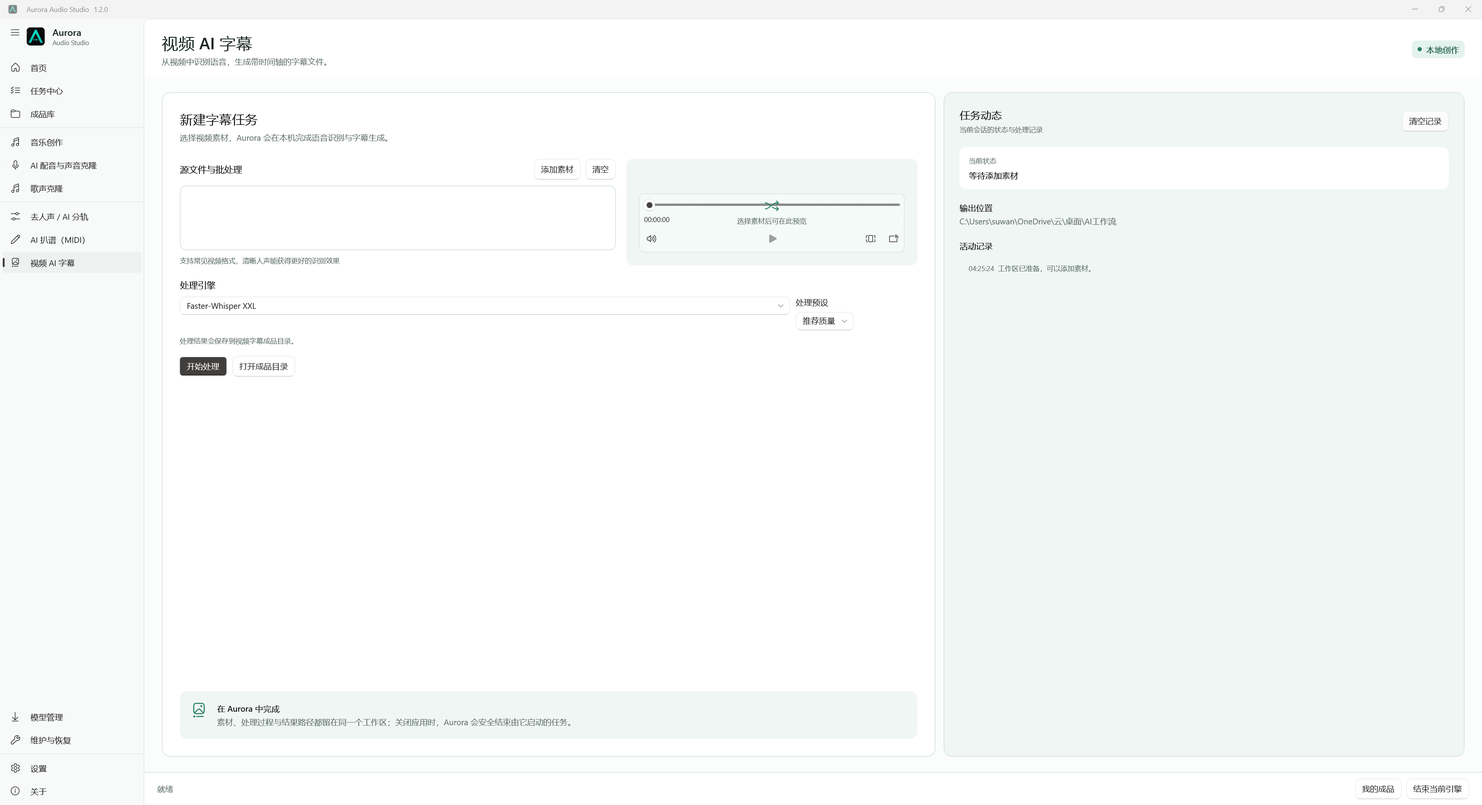
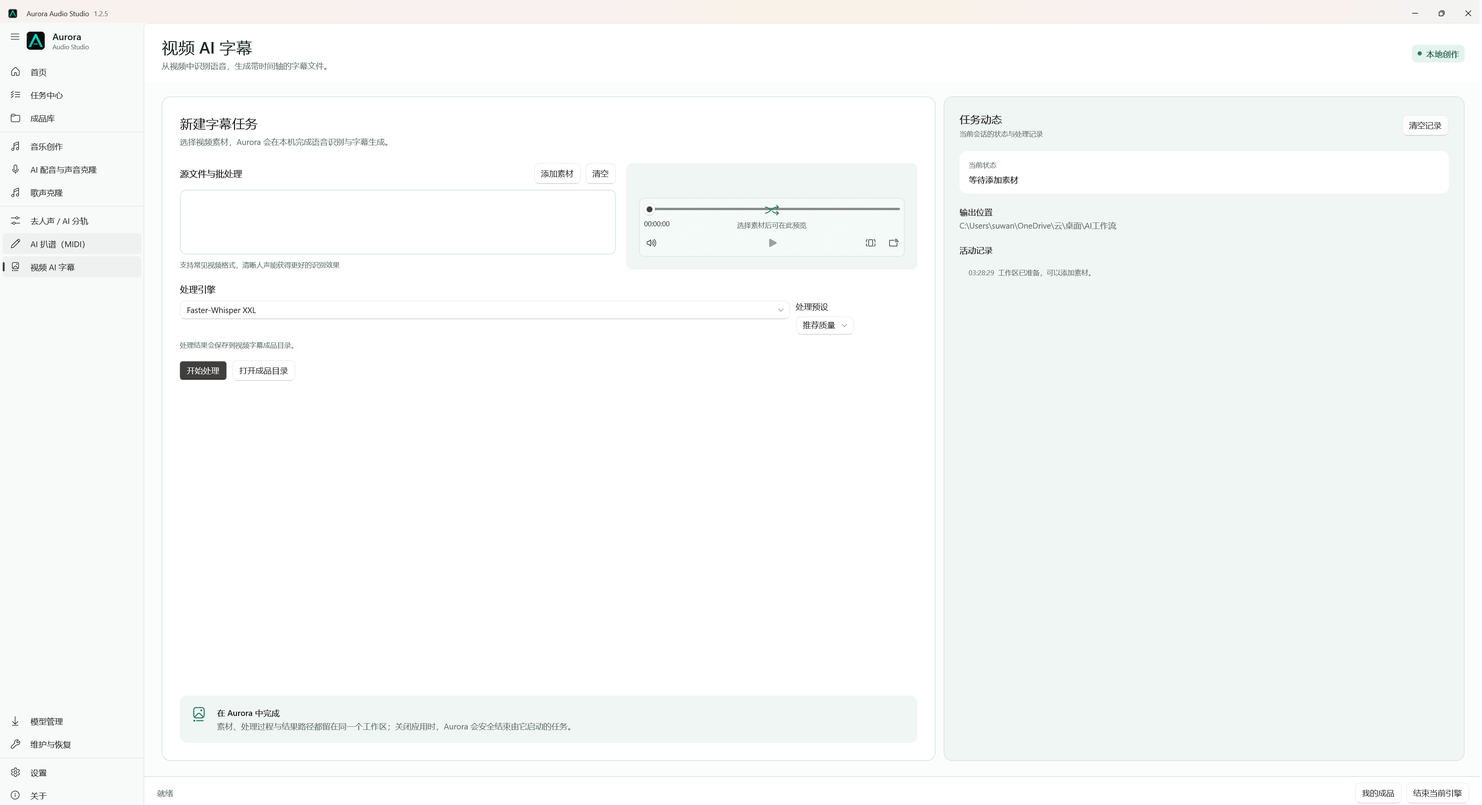
Release Aurora Audio Studio 1.2.5

diff --git a/work/audio-studio/AuroraAudioStudio/MainPage.xaml b/work/audio-studio/AuroraAudioStudio/MainPage.xaml
@@ -61,42 +61,44 @@
                                 <Grid ColumnSpacing="28"><Grid.ColumnDefinitions><ColumnDefinition/><ColumnDefinition Width="Auto"/></Grid.ColumnDefinitions>
                                     <StackPanel Spacing="10" MaxWidth="700" HorizontalAlignment="Left">
                                         <TextBlock x:Name="HomeWelcomeTitle" Text="今天想创作什么？" FontSize="30" FontWeight="SemiBold" Foreground="White"/>
-                                        <TextBlock x:Name="HomeWelcomeBody" Text="从一个明确的任务开始。Aurora 会保存项目、处理记录与成品关系，意外退出后也能继续。" TextWrapping="Wrap" Foreground="#E7FFF6" FontSize="15"/>
+                                        <TextBlock x:Name="HomeWelcomeBody" Text="六个功能互相独立，不需要先新建项目。选择功能后，再按提示添加素材、模型和输出位置。" TextWrapping="Wrap" Foreground="#E7FFF6" FontSize="15"/>
                                     </StackPanel>
                                     <FontIcon Grid.Column="1" Glyph="&#xE8D6;" FontSize="48" Foreground="#D6F8EA" VerticalAlignment="Center"/>
                                 </Grid>
                             </Border>
-                            <Grid Grid.Row="1" ColumnSpacing="12">
-                                <Grid.ColumnDefinitions><ColumnDefinition/><ColumnDefinition/><ColumnDefinition/><ColumnDefinition/><ColumnDefinition/></Grid.ColumnDefinitions>
+                            <Grid Grid.Row="1" ColumnSpacing="12" RowSpacing="12">
+                                <Grid.ColumnDefinitions><ColumnDefinition/><ColumnDefinition/><ColumnDefinition/></Grid.ColumnDefinitions>
+                                <Grid.RowDefinitions><RowDefinition Height="Auto"/><RowDefinition Height="Auto"/></Grid.RowDefinitions>
                                 <Button Grid.Column="0" Tag="music" Click="TemplateButton_Click" HorizontalAlignment="Stretch" HorizontalContentAlignment="Stretch" Padding="18,14"><Grid ColumnSpacing="12"><Grid.ColumnDefinitions><ColumnDefinition Width="Auto"/><ColumnDefinition Width="*"/></Grid.ColumnDefinitions><FontIcon Glyph="&#xE8D6;" FontSize="20" VerticalAlignment="Center" Foreground="{ThemeResource AuroraAccentBrush}"/><StackPanel Grid.Column="1" VerticalAlignment="Center" Spacing="2"><TextBlock Text="创作音乐" FontWeight="SemiBold"/><TextBlock Text="文字到完整歌曲" FontSize="12" TextTrimming="CharacterEllipsis" Foreground="{ThemeResource AuroraMutedBrush}"/></StackPanel></Grid></Button>
                                 <Button Grid.Column="1" Tag="voice" Click="TemplateButton_Click" HorizontalAlignment="Stretch" HorizontalContentAlignment="Stretch" Padding="18,14"><Grid ColumnSpacing="12"><Grid.ColumnDefinitions><ColumnDefinition Width="Auto"/><ColumnDefinition Width="*"/></Grid.ColumnDefinitions><FontIcon Glyph="&#xE720;" FontSize="20" VerticalAlignment="Center" Foreground="{ThemeResource AuroraAccentBrush}"/><StackPanel Grid.Column="1" VerticalAlignment="Center" Spacing="2"><TextBlock Text="制作配音" FontWeight="SemiBold"/><TextBlock Text="设计与克隆音色" FontSize="12" TextTrimming="CharacterEllipsis" Foreground="{ThemeResource AuroraMutedBrush}"/></StackPanel></Grid></Button>
-                                <Button Grid.Column="2" Tag="separation" Click="TemplateButton_Click" HorizontalAlignment="Stretch" HorizontalContentAlignment="Stretch" Padding="18,14"><Grid ColumnSpacing="12"><Grid.ColumnDefinitions><ColumnDefinition Width="Auto"/><ColumnDefinition Width="*"/></Grid.ColumnDefinitions><FontIcon Glyph="&#xE9E9;" FontSize="20" VerticalAlignment="Center" Foreground="{ThemeResource AuroraAccentBrush}"/><StackPanel Grid.Column="1" VerticalAlignment="Center" Spacing="2"><TextBlock Text="拆分混音" FontWeight="SemiBold"/><TextBlock Text="人声与乐器分轨" FontSize="12" TextTrimming="CharacterEllipsis" Foreground="{ThemeResource AuroraMutedBrush}"/></StackPanel></Grid></Button>
-                                <Button Grid.Column="3" Tag="transcription" Click="TemplateButton_Click" HorizontalAlignment="Stretch" HorizontalContentAlignment="Stretch" Padding="18,14"><Grid ColumnSpacing="12"><Grid.ColumnDefinitions><ColumnDefinition Width="Auto"/><ColumnDefinition Width="*"/></Grid.ColumnDefinitions><FontIcon Glyph="&#xE70F;" FontSize="20" VerticalAlignment="Center" Foreground="{ThemeResource AuroraAccentBrush}"/><StackPanel Grid.Column="1" VerticalAlignment="Center" Spacing="2"><TextBlock Text="音频转 MIDI" FontWeight="SemiBold"/><TextBlock Text="识别演奏与旋律" FontSize="12" TextTrimming="CharacterEllipsis" Foreground="{ThemeResource AuroraMutedBrush}"/></StackPanel></Grid></Button>
-                                <Button Grid.Column="4" Tag="subtitles" Click="TemplateButton_Click" HorizontalAlignment="Stretch" HorizontalContentAlignment="Stretch" Padding="18,14"><Grid ColumnSpacing="12"><Grid.ColumnDefinitions><ColumnDefinition Width="Auto"/><ColumnDefinition Width="*"/></Grid.ColumnDefinitions><FontIcon Glyph="&#xE8BA;" FontSize="20" VerticalAlignment="Center" Foreground="{ThemeResource AuroraAccentBrush}"/><StackPanel Grid.Column="1" VerticalAlignment="Center" Spacing="2"><TextBlock Text="生成字幕" FontWeight="SemiBold"/><TextBlock Text="视频语音到时间轴" FontSize="12" TextTrimming="CharacterEllipsis" Foreground="{ThemeResource AuroraMutedBrush}"/></StackPanel></Grid></Button>
+                                <Button Grid.Column="2" Tag="singing" Click="TemplateButton_Click" HorizontalAlignment="Stretch" HorizontalContentAlignment="Stretch" Padding="18,14"><Grid ColumnSpacing="12"><Grid.ColumnDefinitions><ColumnDefinition Width="Auto"/><ColumnDefinition Width="*"/></Grid.ColumnDefinitions><FontIcon Glyph="&#xE189;" FontSize="20" VerticalAlignment="Center" Foreground="{ThemeResource AuroraAccentBrush}"/><StackPanel Grid.Column="1" VerticalAlignment="Center" Spacing="2"><TextBlock Text="克隆歌声" FontWeight="SemiBold"/><TextBlock Text="转换与克隆演唱音色" FontSize="12" TextTrimming="CharacterEllipsis" Foreground="{ThemeResource AuroraMutedBrush}"/></StackPanel></Grid></Button>
+                                <Button Grid.Row="1" Grid.Column="0" Tag="separation" Click="TemplateButton_Click" HorizontalAlignment="Stretch" HorizontalContentAlignment="Stretch" Padding="18,14"><Grid ColumnSpacing="12"><Grid.ColumnDefinitions><ColumnDefinition Width="Auto"/><ColumnDefinition Width="*"/></Grid.ColumnDefinitions><FontIcon Glyph="&#xE9E9;" FontSize="20" VerticalAlignment="Center" Foreground="{ThemeResource AuroraAccentBrush}"/><StackPanel Grid.Column="1" VerticalAlignment="Center" Spacing="2"><TextBlock Text="拆分混音" FontWeight="SemiBold"/><TextBlock Text="人声与乐器分轨" FontSize="12" TextTrimming="CharacterEllipsis" Foreground="{ThemeResource AuroraMutedBrush}"/></StackPanel></Grid></Button>
+                                <Button Grid.Row="1" Grid.Column="1" Tag="transcription" Click="TemplateButton_Click" HorizontalAlignment="Stretch" HorizontalContentAlignment="Stretch" Padding="18,14"><Grid ColumnSpacing="12"><Grid.ColumnDefinitions><ColumnDefinition Width="Auto"/><ColumnDefinition Width="*"/></Grid.ColumnDefinitions><FontIcon Glyph="&#xE70F;" FontSize="20" VerticalAlignment="Center" Foreground="{ThemeResource AuroraAccentBrush}"/><StackPanel Grid.Column="1" VerticalAlignment="Center" Spacing="2"><TextBlock Text="音频转 MIDI" FontWeight="SemiBold"/><TextBlock Text="识别演奏与旋律" FontSize="12" TextTrimming="CharacterEllipsis" Foreground="{ThemeResource AuroraMutedBrush}"/></StackPanel></Grid></Button>
+                                <Button Grid.Row="1" Grid.Column="2" Tag="subtitles" Click="TemplateButton_Click" HorizontalAlignment="Stretch" HorizontalContentAlignment="Stretch" Padding="18,14"><Grid ColumnSpacing="12"><Grid.ColumnDefinitions><ColumnDefinition Width="Auto"/><ColumnDefinition Width="*"/></Grid.ColumnDefinitions><FontIcon Glyph="&#xE8BA;" FontSize="20" VerticalAlignment="Center" Foreground="{ThemeResource AuroraAccentBrush}"/><StackPanel Grid.Column="1" VerticalAlignment="Center" Spacing="2"><TextBlock Text="生成字幕" FontWeight="SemiBold"/><TextBlock Text="视频语音到时间轴" FontSize="12" TextTrimming="CharacterEllipsis" Foreground="{ThemeResource AuroraMutedBrush}"/></StackPanel></Grid></Button>
                             </Grid>
                             <Border Grid.Row="2" Padding="20" Background="{ThemeResource AuroraPaneBrush}" CornerRadius="14">
                                 <Grid ColumnSpacing="18">
                                     <Grid.ColumnDefinitions><ColumnDefinition/><ColumnDefinition Width="Auto"/><ColumnDefinition Width="Auto"/><ColumnDefinition Width="Auto"/></Grid.ColumnDefinitions>
                                     <StackPanel Spacing="4" VerticalAlignment="Center">
-                                        <TextBlock Text="第一次使用？三步开始创作" FontSize="17" FontWeight="SemiBold"/>
-                                        <TextBlock Text="先确认保存位置，再按需安装一个模型；无需一次下载全部组件。" Foreground="{ThemeResource AuroraMutedBrush}" TextWrapping="Wrap"/>
+                                        <TextBlock Text="第一次使用？直接选择功能" FontSize="17" FontWeight="SemiBold"/>
+                                        <TextBlock Text="不需要新建项目。进入任一功能后，Aurora 会根据当前任务提示所需的素材、模型和输出位置。" Foreground="{ThemeResource AuroraMutedBrush}" TextWrapping="Wrap"/>
                                     </StackPanel>
-                                    <Button Grid.Column="1" Content="1. 设置保存位置" Tag="settings" Click="TemplateButton_Click" VerticalAlignment="Center"/>
-                                    <Button Grid.Column="2" Content="2. 按需安装模型" Tag="models" Click="TemplateButton_Click" VerticalAlignment="Center"/>
-                                    <Button Grid.Column="3" Content="3. 生成第一份字幕" Tag="subtitles" Click="TemplateButton_Click" VerticalAlignment="Center" Style="{StaticResource AccentButtonStyle}"/>
+                                    <Button Grid.Column="1" Content="创作音乐" Tag="music" Click="TemplateButton_Click" VerticalAlignment="Center"/>
+                                    <Button Grid.Column="2" Content="制作配音" Tag="voice" Click="TemplateButton_Click" VerticalAlignment="Center"/>
+                                    <Button Grid.Column="3" Content="生成字幕" Tag="subtitles" Click="TemplateButton_Click" VerticalAlignment="Center" Style="{StaticResource AccentButtonStyle}"/>
                                 </Grid>
                             </Border>
                             <Grid Grid.Row="3" ColumnSpacing="28"><Grid.ColumnDefinitions><ColumnDefinition Width="3*"/><ColumnDefinition Width="2*"/></Grid.ColumnDefinitions>
                                 <Grid><Grid.RowDefinitions><RowDefinition Height="Auto"/><RowDefinition Height="*"/></Grid.RowDefinitions>
-                                    <TextBlock Text="最近项目" FontSize="20" FontWeight="SemiBold" Margin="2,0,0,12"/>
+                                    <TextBlock Text="最近处理记录" FontSize="20" FontWeight="SemiBold" Margin="2,0,0,12"/>
                                     <ListView x:Name="RecentProjectsList" Grid.Row="1" SelectionMode="None">
                                         <ListView.ItemTemplate><DataTemplate><Grid Padding="14,12" ColumnSpacing="14"><Grid.ColumnDefinitions><ColumnDefinition/><ColumnDefinition Width="150"/><ColumnDefinition Width="Auto"/></Grid.ColumnDefinitions>
                                             <StackPanel><TextBlock Text="{Binding Name}" FontWeight="SemiBold"/><TextBlock Text="{Binding SourcePath}" TextTrimming="CharacterEllipsis" Foreground="{ThemeResource AuroraMutedBrush}" FontSize="12"/></StackPanel>
                                             <StackPanel Grid.Column="1"><TextBlock Text="{Binding FeatureDisplay}"/><TextBlock Text="{Binding UpdatedDisplay}" Foreground="{ThemeResource AuroraMutedBrush}" FontSize="12"/></StackPanel>
-                                            <Button Grid.Column="2" Content="继续" Tag="{Binding Id}" Click="OpenProjectButton_Click"/>
+                                            <Button Grid.Column="2" Content="再次处理" Tag="{Binding Id}" Click="OpenProjectButton_Click"/>
                                         </Grid></DataTemplate></ListView.ItemTemplate>
                                     </ListView>
-                                    <StackPanel x:Name="ProjectsEmpty" Grid.Row="1" HorizontalAlignment="Center" VerticalAlignment="Center" Spacing="8"><FontIcon Glyph="&#xE8B7;" FontSize="28"/><TextBlock Text="完成第一个任务后，项目会出现在这里。" Foreground="{ThemeResource AuroraMutedBrush}"/></StackPanel>
+                                    <StackPanel x:Name="ProjectsEmpty" Grid.Row="1" HorizontalAlignment="Center" VerticalAlignment="Center" Spacing="8"><FontIcon Glyph="&#xE8B7;" FontSize="28"/><TextBlock Text="完成分轨、扒谱或字幕任务后，处理记录会出现在这里。" Foreground="{ThemeResource AuroraMutedBrush}"/></StackPanel>
                                 </Grid>
                                 <Border Grid.Column="1" Padding="22" Background="{ThemeResource AuroraPaneBrush}" CornerRadius="14">
                                     <StackPanel Spacing="14"><TextBlock Text="正在进行" FontSize="20" FontWeight="SemiBold"/><TextBlock x:Name="QueueSummaryText" Text="当前没有排队任务" Foreground="{ThemeResource AuroraMutedBrush}"/>
@@ -335,7 +337,7 @@
                             <StackPanel Orientation="Horizontal" Spacing="10" Margin="0,0,0,16"><Button Content="重新扫描" Click="RunHealthScanButton_Click" Style="{StaticResource AccentButtonStyle}"/><Button Content="导出诊断包" Click="DiagnosticsButton_Click"/><Button Content="打开日志" Click="OpenLogsButton_Click"/></StackPanel>
                             <ListView x:Name="HealthList" Grid.Row="1" SelectionMode="None"><ListView.ItemTemplate><DataTemplate><Grid Padding="14,12" ColumnSpacing="14"><Grid.ColumnDefinitions><ColumnDefinition Width="180"/><ColumnDefinition Width="110"/><ColumnDefinition/></Grid.ColumnDefinitions><TextBlock Text="{Binding Name}" FontWeight="SemiBold"/><TextBlock Grid.Column="1" Text="{Binding State}"/><TextBlock Grid.Column="2" Text="{Binding Detail}" TextWrapping="Wrap" Foreground="{ThemeResource AuroraMutedBrush}"/></Grid></DataTemplate></ListView.ItemTemplate></ListView>
                         </Grid>
-                        <Border Grid.Column="1" Padding="24" Background="{ThemeResource AuroraPaneBrush}" CornerRadius="14"><StackPanel Spacing="18"><TextBlock Text="运行环境" FontSize="20" FontWeight="SemiBold"/><TextBlock x:Name="GpuSummaryText" TextWrapping="Wrap"/><Rectangle Height="1" Fill="{ThemeResource AuroraStrokeBrush}"/><ToggleSwitch x:Name="SafeModeToggle" Header="安全模式" OffContent="允许启动全部已安装引擎" OnContent="仅查看项目与诊断" Toggled="SafeModeToggle_Toggled"/><ToggleSwitch x:Name="AutoReleaseToggle" Header="任务完成后释放显存" IsOn="True" Toggled="AutoReleaseToggle_Toggled"/><TextBlock Text="安全模式不会删除或更改模型，只会阻止第三方引擎启动，适合排查启动问题。" TextWrapping="Wrap" Foreground="{ThemeResource AuroraMutedBrush}"/></StackPanel></Border>
+                        <Border Grid.Column="1" Padding="24" Background="{ThemeResource AuroraPaneBrush}" CornerRadius="14"><StackPanel Spacing="18"><TextBlock Text="运行环境" FontSize="20" FontWeight="SemiBold"/><TextBlock x:Name="GpuSummaryText" TextWrapping="Wrap"/><Rectangle Height="1" Fill="{ThemeResource AuroraStrokeBrush}"/><ToggleSwitch x:Name="SafeModeToggle" Header="安全模式" OffContent="允许启动全部已安装引擎" OnContent="仅查看任务与诊断" Toggled="SafeModeToggle_Toggled"/><ToggleSwitch x:Name="AutoReleaseToggle" Header="任务完成后释放显存" IsOn="True" Toggled="AutoReleaseToggle_Toggled"/><TextBlock Text="安全模式不会删除或更改模型，只会阻止第三方引擎启动，适合排查启动问题。" TextWrapping="Wrap" Foreground="{ThemeResource AuroraMutedBrush}"/></StackPanel></Border>
                     </Grid>
 
                     <ScrollViewer x:Name="SettingsView" Visibility="Collapsed"><StackPanel Padding="30,26" MaxWidth="820" HorizontalAlignment="Left" Spacing="20">
@@ -348,7 +350,7 @@
                         </ComboBox>
                         <TextBox x:Name="ModelRootBox" Header="模型目录" Width="620" HorizontalAlignment="Left"/>
                         <TextBox x:Name="OutputRootBox" Header="成品目录" Width="620" HorizontalAlignment="Left"/>
-                        <TextBox x:Name="ProjectsRootBox" Header="项目目录" Width="620" HorizontalAlignment="Left"/>
+                        <TextBox x:Name="ProjectsRootBox" Header="处理记录目录" Width="620" HorizontalAlignment="Left"/>
                         <ToggleSwitch x:Name="AppAutoUpdateToggle" Header="每天首次启动时检查应用更新"/>
                         <ToggleSwitch x:Name="ModelAutoUpdateToggle" Header="启动时检查模型更新"/>
                         <ToggleSwitch x:Name="ConfirmLargeToggle" Header="下载大型模型前始终确认"/>

diff --git a/docs/index.html b/docs/index.html
@@ -5,12 +5,12 @@
   <meta name="viewport" content="width=device-width,initial-scale=1,viewport-fit=cover">
   <meta name="theme-color" content="#f4faf7">
   <meta name="description" content="Aurora Audio Studio 是面向 Windows 的本地 AI 音频创作工作台，统一音乐、声音、分轨、MIDI 与字幕工作流。">
-  <meta property="og:title" content="Aurora Audio Studio 1.2.0">
-  <meta property="og:description" content="把模型、任务、项目与成品留在同一个本地音频工作台。">
-  <meta property="og:image" content="https://swy2018.github.io/Aurora-Audio-Studio/assets/aurora-workbench-music.png?v=120-sharp">
+  <meta property="og:title" content="Aurora Audio Studio 1.2.5">
+  <meta property="og:description" content="六个独立音频功能直接开始，模型、任务与成品留在本地。">
+  <meta property="og:image" content="https://swy2018.github.io/Aurora-Audio-Studio/assets/aurora-workbench-music.png?v=125-sharp">
   <title>Aurora Audio Studio | 本地音频创作工作台</title>
   <link rel="icon" href="assets/aurora-icon.png">
-  <link rel="preload" as="image" href="assets/aurora-workbench-music.png?v=120-sharp" fetchpriority="high">
+  <link rel="preload" as="image" href="assets/aurora-workbench-music.png?v=125-sharp" fetchpriority="high">
   <link rel="stylesheet" href="styles.css">
   <script type="module" src="app.js"></script>
 </head>
@@ -36,17 +36,17 @@
   <main id="content">
     <section class="hero shell" id="top">
       <div class="hero-copy reveal">
-        <p class="release"><span class="zh">Aurora Audio Studio 1.2.0</span><span class="en">Aurora Audio Studio 1.2.0</span></p>
+        <p class="release"><span class="zh">Aurora Audio Studio 1.2.5</span><span class="en">Aurora Audio Studio 1.2.5</span></p>
         <h1><span class="zh">让声音创作，<br>回到创作本身。</span><span class="en">Keep audio creation<br>focused on the work.</span></h1>
         <p class="hero-lead"><span class="zh">音乐生成、声音克隆、歌声转换、AI 分轨、MIDI 扒谱与视频字幕，集中在一套本地 Windows 工作台里。</span><span class="en">Music, voice cloning, singing conversion, stem separation, MIDI transcription, and subtitles in one local Windows workspace.</span></p>
         <div class="hero-actions">
-          <a class="button primary" href="https://github.com/swy2018/Aurora-Audio-Studio/releases/latest"><span class="zh">下载 1.2.0</span><span class="en">Download 1.2.0</span></a>
+          <a class="button primary" href="https://github.com/swy2018/Aurora-Audio-Studio/releases/latest"><span class="zh">下载 1.2.5</span><span class="en">Download 1.2.5</span></a>
           <a class="button secondary" href="https://github.com/swy2018/Aurora-Audio-Studio"><span class="zh">查看源代码</span><span class="en">View source</span></a>
         </div>
       </div>
       <figure class="hero-product reveal">
-        <button class="image-button" type="button" data-lightbox="assets/aurora-workbench-music.png?v=120-sharp" aria-label="全屏查看 Aurora 音乐创作工作台">
-          <img src="assets/aurora-workbench-music.png?v=120-sharp" width="3840" height="2088" alt="Aurora Audio Studio 1.2.0 音乐创作工作台完整界面" fetchpriority="high">
+        <button class="image-button" type="button" data-lightbox="assets/aurora-workbench-music.png?v=125-sharp" aria-label="全屏查看 Aurora 音乐创作工作台">
+          <img src="assets/aurora-workbench-music.png?v=125-sharp" width="3840" height="2088" alt="Aurora Audio Studio 1.2.5 音乐创作工作台完整界面" fetchpriority="high">
         </button>
         <figcaption><span class="zh">真实工作台界面。点击图片可按原始尺寸查看。</span><span class="en">The real workspace. Open the image for a full-resolution view.</span></figcaption>
       </figure>
@@ -62,18 +62,18 @@
       <div class="section-heading reveal">
         <p class="eyebrow"><span class="zh">同一个工作空间</span><span class="en">One workspace</span></p>
         <h2><span class="zh">不是模型启动器，<br>是一套完整的创作环境。</span><span class="en">More than a model launcher.<br>A complete production environment.</span></h2>
-        <p><span class="zh">工作台、项目、任务、模型与成品关系始终可见。界面截图使用原始分辨率展示，不做透视拉伸和裁切。</span><span class="en">Workspaces, projects, tasks, models, and outputs remain connected. Every product image keeps its original aspect ratio without perspective distortion or cropping.</span></p>
+        <p><span class="zh">六个功能互相独立，直接进入当前工作台；任务、模型与成品状态保持清晰。界面截图使用原始分辨率展示，不做透视拉伸和裁切。</span><span class="en">Six independent features open directly into their workspaces, with task, model, and output state kept clear. Every product image keeps its original aspect ratio without perspective distortion or cropping.</span></p>
       </div>
 
       <div class="workspace-browser reveal">
         <div class="workspace-tabs" role="tablist" aria-label="工作台预览">
-          <button type="button" role="tab" aria-selected="true" data-shot="assets/aurora-workbench-music.png?v=120-sharp" data-zh="输入创作描述，选择模型与时长，在嵌入式工作台里完成音乐生成。" data-en="Describe the piece, choose a model and duration, then create inside the embedded music workspace."><span class="zh">音乐创作</span><span class="en">Music</span></button>
-          <button type="button" role="tab" aria-selected="false" data-shot="assets/aurora-workbench-voice.png?v=120-sharp" data-zh="在统一入口管理配音、音色设计、声音克隆与歌声转换。" data-en="Manage speech, voice design, cloning, and singing conversion through one clear entry point."><span class="zh">声音与歌声</span><span class="en">Voice</span></button>
-          <button type="button" role="tab" aria-selected="false" data-shot="assets/aurora-workbench-subtitle.png?v=120-sharp" data-zh="批量加入视频素材，预览内容并生成可继续校对的时间轴字幕。" data-en="Add video in batches, preview the source, and create timed subtitles ready for review."><span class="zh">视频字幕</span><span class="en">Subtitles</span></button>
+          <button type="button" role="tab" aria-selected="true" data-shot="assets/aurora-workbench-music.png?v=125-sharp" data-zh="输入创作描述，选择模型与时长，在嵌入式工作台里完成音乐生成。" data-en="Describe the piece, choose a model and duration, then create inside the embedded music workspace."><span class="zh">音乐创作</span><span class="en">Music</span></button>
+          <button type="button" role="tab" aria-selected="false" data-shot="assets/aurora-workbench-voice.png?v=125-sharp" data-zh="在独立入口管理配音、音色设计与声音克隆。" data-en="Manage speech, voice design, and cloning through its independent entry point."><span class="zh">声音与歌声</span><span class="en">Voice</span></button>
+          <button type="button" role="tab" aria-selected="false" data-shot="assets/aurora-workbench-subtitle.png?v=125-sharp" data-zh="批量加入视频素材，预览内容并生成可继续校对的时间轴字幕。" data-en="Add video in batches, preview the source, and create timed subtitles ready for review."><span class="zh">视频字幕</span><span class="en">Subtitles</span></button>
         </div>
         <p class="workspace-description"><span class="zh">输入创作描述，选择模型与时长，在嵌入式工作台里完成音乐生成。</span><span class="en">Describe the piece, choose a model and duration, then create inside the embedded music workspace.</span></p>
-        <button class="image-button workspace-image" type="button" data-lightbox="assets/aurora-workbench-music.png?v=120-sharp" aria-label="全屏查看当前工作台">
-          <img src="assets/aurora-workbench-music.png?v=120-sharp" width="3840" height="2088" alt="Aurora 1.2.0 音乐创作工作台" loading="lazy">
+        <button class="image-button workspace-image" type="button" data-lightbox="assets/aurora-workbench-music.png?v=125-sharp" aria-label="全屏查看当前工作台">
+          <img src="assets/aurora-workbench-music.png?v=125-sharp" width="3840" height="2088" alt="Aurora 1.2.5 音乐创作工作台" loading="lazy">
         </button>
       </div>
     </section>
@@ -81,15 +81,15 @@
     <section class="workflow-section" id="workflow">
       <div class="shell workflow-grid">
         <div class="workflow-intro reveal">
-          <p class="eyebrow"><span class="zh">1.2.0 专业工作流</span><span class="en">Professional workflow in 1.2.0</span></p>
+          <p class="eyebrow"><span class="zh">1.2.5 直接开始</span><span class="en">Start directly in 1.2.5</span></p>
           <h2><span class="zh">从一份素材，<br>到可追溯的成品。</span><span class="en">From source media<br>to traceable output.</span></h2>
-          <p><span class="zh">1.2.0 增加清晰的首次使用路径，并把批处理、媒体预览、实时任务状态和成品管理连成一条主流程。</span><span class="en">Version 1.2.0 adds a clear first-run path and keeps batches, media preview, live task state, and result management in one flow.</span></p>
+          <p><span class="zh">1.2.5 让六个功能从首页直接进入，并用真实的处理记录替代并不存在的统一工程概念。</span><span class="en">Version 1.2.5 opens all six features directly from Home and replaces the fictional unified-project concept with honest processing records.</span></p>
         </div>
         <ol class="workflow-list reveal">
           <li><div><strong><span class="zh">拖入或批量选择素材</span><span class="en">Drop or batch-select media</span></strong><p><span class="zh">音频和视频在提交前即可预览，并保留大小与格式信息。</span><span class="en">Preview audio and video before submitting, with format and size visible.</span></p></div></li>
           <li><div><strong><span class="zh">选择清晰的处理预设</span><span class="en">Choose a clear processing preset</span></strong><p><span class="zh">快速草稿、推荐质量与高质量会匹配对应的本地引擎。</span><span class="en">Fast, recommended, and quality presets select the appropriate local engine.</span></p></div></li>
           <li><div><strong><span class="zh">在任务中心掌握过程</span><span class="en">Follow progress in Task Center</span></strong><p><span class="zh">查看真实进度、当前阶段、持续时间和引擎日志，也可暂停后续队列。</span><span class="en">See real progress, stage, duration, and engine logs, or pause the pending queue.</span></p></div></li>
-          <li><div><strong><span class="zh">在成品库继续工作</span><span class="en">Continue from the Results library</span></strong><p><span class="zh">音轨、MIDI 与字幕按项目和时间汇总，直接打开所在位置。</span><span class="en">Stems, MIDI, and subtitles are grouped by project and time with direct access.</span></p></div></li>
+          <li><div><strong><span class="zh">在成品库继续工作</span><span class="en">Continue from the Results library</span></strong><p><span class="zh">音轨、MIDI 与字幕按处理记录和时间汇总，直接打开所在位置。</span><span class="en">Stems, MIDI, and subtitles are grouped by processing record and time with direct access.</span></p></div></li>
         </ol>
       </div>
     </section>
@@ -101,7 +101,7 @@
       </div>
       <div class="local-details reveal">
         <article><strong><span class="zh">模型部署更透明</span><span class="en">Transparent model deployment</span></strong><p><span class="zh">安装前显示目标目录、预计下载量、建议空间与当前可用空间。下载过程可取消并继续。</span><span class="en">Review the target, download estimate, recommended space, and available space before a resumable installation.</span></p></article>
-        <article><strong><span class="zh">项目关系不会丢失</span><span class="en">Project context persists</span></strong><p><span class="zh">.arr 项目关联源素材、所用模型、任务记录与输出结果，旧 .aurora 项目继续兼容。</span><span class="en">.arr projects link sources, models, tasks, and outputs while legacy .aurora projects remain compatible.</span></p></article>
+        <article><strong><span class="zh">处理记录清晰可查</span><span class="en">Processing history stays traceable</span></strong><p><span class="zh">.arr 是分轨、扒谱和字幕任务的轻量记录，不是统一工程文件；它关联源文件路径、模型、参数与输出，旧 .aurora 记录继续兼容。</span><span class="en">.arr is a lightweight record for separation, transcription, and subtitle tasks—not a unified project file. It links source paths, models, parameters, and outputs while legacy .aurora records remain compatible.</span></p></article>
         <article><strong><span class="zh">更新保持标准体验</span><span class="en">Standard Windows updates</span></strong><p><span class="zh">应用从 GitHub 获取经过 SHA-256 校验的安装包，并交给标准 Windows 安装界面覆盖升级。</span><span class="en">Aurora verifies GitHub installers with SHA-256 and hands updates to the standard Windows setup flow.</span></p></article>
       </div>
     </section>
@@ -122,9 +122,9 @@
     <section class="download-section shell" id="download">
       <div class="download-inner reveal">
         <h2><span class="zh">把工作流留在一处。</span><span class="en">Keep the workflow in one place.</span></h2>
-        <p><span class="zh">Aurora Audio Studio 1.2.0 用三步引导开启第一次创作，并让素材、模型、任务与成品始终连在一起。</span><span class="en">Aurora Audio Studio 1.2.0 starts the first creation in three steps and keeps media, models, tasks, and results connected.</span></p>
+        <p><span class="zh">Aurora Audio Studio 1.2.5 让六个独立功能直接开始，并在需要时才提示素材、模型与输出位置。</span><span class="en">Aurora Audio Studio 1.2.5 starts each of its six independent features directly and prompts for media, models, and output only when needed.</span></p>
         <div class="hero-actions">
-          <a class="button primary" href="https://github.com/swy2018/Aurora-Audio-Studio/releases/latest"><span class="zh">下载 1.2.0 安装版</span><span class="en">Download 1.2.0</span></a>
+          <a class="button primary" href="https://github.com/swy2018/Aurora-Audio-Studio/releases/latest"><span class="zh">下载 1.2.5 安装版</span><span class="en">Download 1.2.5</span></a>
           <a class="button secondary" href="https://github.com/swy2018/Aurora-Audio-Studio/releases"><span class="zh">查看更新日志</span><span class="en">Release notes</span></a>
         </div>
       </div>
@@ -139,7 +139,7 @@
 
   <dialog class="lightbox" aria-label="产品截图预览">
     <button type="button" class="lightbox-close" aria-label="关闭">关闭</button>
-    <img src="assets/aurora-workbench-music.png?v=120-sharp" alt="Aurora Audio Studio 产品截图">
+    <img src="assets/aurora-workbench-music.png?v=125-sharp" alt="Aurora Audio Studio 产品截图">
   </dialog>
 </body>
 </html>

diff --git a/work/audio-studio/AuroraAudioStudio/Services/LocalizationService.cs b/work/audio-studio/AuroraAudioStudio/Services/LocalizationService.cs
@@ -5,7 +5,7 @@ public sealed class LocalizationService(SettingsService settings)
     private readonly Dictionary<string, string[]> values = new(StringComparer.OrdinalIgnoreCase)
     {
         ["home"] = ["首页", "首頁", "Home", "ホーム"],
-        ["homeSubtitle"] = ["继续项目，或从一个清晰的创作任务开始。", "繼續專案，或從一個清楚的創作任務開始。", "Continue a project or start with a focused creative task.", "プロジェクトを続けるか、明確な制作タスクから始めます。"],
+        ["homeSubtitle"] = ["选择一个功能，直接开始当前任务。", "選擇一個功能，直接開始目前任務。", "Choose a feature and start your task.", "機能を選んで、すぐにタスクを始めましょう。"],
         ["tasks"] = ["任务中心", "任務中心", "Task Center", "タスクセンター"],
         ["tasksSubtitle"] = ["查看排队、处理中、已完成与可恢复的任务。", "查看排隊、處理中、已完成與可恢復的任務。", "Review queued, running, completed, and recoverable tasks.", "待機中、処理中、完了、復旧可能なタスクを確認します。"],
         ["results"] = ["成品库", "成品庫", "Results", "成果ライブラリ"],
@@ -73,17 +73,19 @@ public sealed class LocalizationService(SettingsService settings)
     private readonly Dictionary<string, string[]> phrases = new(StringComparer.OrdinalIgnoreCase)
     {
         ["今天想创作什么？"] = ["今天想创作什么？", "今天想創作什麼？", "What would you like to create?", "今日は何を作りますか？"],
+        ["六个功能互相独立，不需要先新建项目。选择功能后，再按提示添加素材、模型和输出位置。"] = ["六个功能互相独立，不需要先新建项目。选择功能后，再按提示添加素材、模型和输出位置。", "六個功能彼此獨立，不需要先建立專案。選擇功能後，再依提示加入素材、模型和輸出位置。", "All six features work independently—no project setup required. Choose a feature, then follow the prompts for media, models, and output location.", "6つの機能はそれぞれ独立しており、プロジェクト作成は不要です。機能を選び、素材、モデル、出力先の案内に従ってください。"],
         ["创作音乐"] = ["创作音乐", "創作音樂", "Create music", "音楽を作る"],
         ["制作配音"] = ["制作配音", "製作配音", "Create a voice", "音声を作る"],
+        ["克隆歌声"] = ["克隆歌声", "克隆歌聲", "Clone singing voice", "歌声をクローン"],
+        ["转换与克隆演唱音色"] = ["转换与克隆演唱音色", "轉換與克隆演唱音色", "Convert and clone singing voices", "歌声の変換とクローン"],
         ["拆分混音"] = ["拆分混音", "拆分混音", "Split a mix", "ミックスを分離"],
         ["音频转 MIDI"] = ["音频转 MIDI", "音訊轉 MIDI", "Audio to MIDI", "音声を MIDI へ"],
         ["生成字幕"] = ["生成字幕", "產生字幕", "Generate subtitles", "字幕を生成"],
-        ["第一次使用？三步开始创作"] = ["第一次使用？三步开始创作", "第一次使用？三步開始創作", "New here? Start in three steps", "初めてですか？3 ステップで開始"],
-        ["先确认保存位置，再按需安装一个模型；无需一次下载全部组件。"] = ["先确认保存位置，再按需安装一个模型；无需一次下载全部组件。", "先確認儲存位置，再按需安裝一個模型；無需一次下載全部元件。", "Choose storage, then install one model as needed. You do not need every component at once.", "保存先を確認し、必要なモデルを 1 つ導入します。すべてを一度に取得する必要はありません。"],
-        ["1. 设置保存位置"] = ["1. 设置保存位置", "1. 設定儲存位置", "1. Choose storage", "1. 保存先を設定"],
-        ["2. 按需安装模型"] = ["2. 按需安装模型", "2. 必要時安裝模型", "2. Install a model", "2. モデルを導入"],
-        ["3. 生成第一份字幕"] = ["3. 生成第一份字幕", "3. 產生第一份字幕", "3. Create first subtitles", "3. 最初の字幕を作成"],
-        ["最近项目"] = ["最近项目", "最近專案", "Recent projects", "最近のプロジェクト"],
+        ["第一次使用？直接选择功能"] = ["第一次使用？直接选择功能", "第一次使用？直接選擇功能", "New here? Choose a feature", "初めてですか？機能を選びましょう"],
+        ["不需要新建项目。进入任一功能后，Aurora 会根据当前任务提示所需的素材、模型和输出位置。"] = ["不需要新建项目。进入任一功能后，Aurora 会根据当前任务提示所需的素材、模型和输出位置。", "不需要建立專案。進入任一功能後，Aurora 會依目前任務提示所需的素材、模型和輸出位置。", "No project setup is required. Open any feature and Aurora will prompt for the media, model, and output location needed for that task.", "プロジェクト作成は不要です。機能を開くと、タスクに必要な素材、モデル、出力先が案内されます。"],
+        ["最近处理记录"] = ["最近处理记录", "最近處理記錄", "Recent processing records", "最近の処理履歴"],
+        ["再次处理"] = ["再次处理", "再次處理", "Run again", "再処理"],
+        ["完成分轨、扒谱或字幕任务后，处理记录会出现在这里。"] = ["完成分轨、扒谱或字幕任务后，处理记录会出现在这里。", "完成分軌、扒譜或字幕任務後，處理記錄會顯示在這裡。", "Processing records appear here after separation, transcription, or subtitle tasks finish.", "分離、採譜、字幕タスクの完了後、処理履歴がここに表示されます。"],
         ["正在进行"] = ["正在进行", "進行中", "In progress", "進行中"],
         ["查看全部任务"] = ["查看全部任务", "查看全部任務", "View all tasks", "すべてのタスク"],
         ["所有本地任务"] = ["所有本地任务", "所有本機任務", "All local tasks", "すべてのローカルタスク"],
@@ -107,7 +109,7 @@ public sealed class LocalizationService(SettingsService settings)
         ["主题"] = ["主题", "主題", "Theme", "テーマ"],
         ["模型目录"] = ["模型目录", "模型目錄", "Model folder", "モデルフォルダー"],
         ["成品目录"] = ["成品目录", "成品目錄", "Output folder", "出力フォルダー"],
-        ["项目目录"] = ["项目目录", "專案目錄", "Project folder", "プロジェクトフォルダー"],
+        ["处理记录目录"] = ["处理记录目录", "處理記錄目錄", "Processing records folder", "処理履歴フォルダー"],
         ["保存设置"] = ["保存设置", "儲存設定", "Save settings", "設定を保存"],
         ["每天首次启动时检查应用更新"] = ["每天首次启动时检查应用更新", "每天首次啟動時檢查應用程式更新", "Check app updates on the first launch each day", "毎日の初回起動時にアプリ更新を確認"],
         ["启动时检查模型更新"] = ["启动时检查模型更新", "啟動時檢查模型更新", "Check model updates at startup", "起動時にモデル更新を確認"],

diff --git a/work/audio-studio/AuroraAudioStudio/MainPage.xaml.cs b/work/audio-studio/AuroraAudioStudio/MainPage.xaml.cs
@@ -411,7 +411,7 @@ public sealed partial class MainPage : Page
     private async void ModelRollbackButton_Click(object sender, RoutedEventArgs e)
     {
         if ((sender as Button)?.Tag is not string id || catalog.Find(id) is not { } model) return;
-        var dialog = new ContentDialog { XamlRoot = XamlRoot, Title = "恢复模型版本", Content = $"将 {model.Name} 恢复到上一个已记录版本。项目文件和成品不会受影响。", PrimaryButtonText = "恢复", CloseButtonText = "取消" };
+        var dialog = new ContentDialog { XamlRoot = XamlRoot, Title = "恢复模型版本", Content = $"将 {model.Name} 恢复到上一个已记录版本。处理记录和成品不会受影响。", PrimaryButtonText = "恢复", CloseButtonText = "取消" };
         if (await ShowDialogAsync(dialog) != ContentDialogResult.Primary) return;
         var result = await modelUpdater.RollbackAsync(model); SetStatus(result.Message); RefreshModels();
     }
@@ -421,7 +421,7 @@ public sealed partial class MainPage : Page
         if ((sender as Button)?.Tag is not string id || catalog.Find(id) is not { } model) return;
         var path = Path.Combine(settings.Current.LocalAiRoot, model.RelativeRoot);
         if (!Directory.Exists(path)) { SetStatus("此模型当前未安装。 "); return; }
-        var dialog = new ContentDialog { XamlRoot = XamlRoot, Title = "卸载模型", Content = $"将 {model.Name} 移到 Windows 回收站。Aurora、项目和成品会保留。", PrimaryButtonText = "移到回收站", CloseButtonText = "取消", DefaultButton = ContentDialogButton.Close };
+        var dialog = new ContentDialog { XamlRoot = XamlRoot, Title = "卸载模型", Content = $"将 {model.Name} 移到 Windows 回收站。Aurora、处理记录和成品会保留。", PrimaryButtonText = "移到回收站", CloseButtonText = "取消", DefaultButton = ContentDialogButton.Close };
         if (await ShowDialogAsync(dialog) != ContentDialogResult.Primary) return;
         try { Microsoft.VisualBasic.FileIO.FileSystem.DeleteDirectory(path, Microsoft.VisualBasic.FileIO.UIOption.OnlyErrorDialogs, Microsoft.VisualBasic.FileIO.RecycleOption.SendToRecycleBin); SetStatus(model.Name + " 已移到回收站。 "); }
         catch (Exception ex) { SetStatus("卸载未完成：" + ex.Message); }
@@ -636,7 +636,7 @@ public sealed partial class MainPage : Page
     private static string CurrentDisplayVersion()
     {
         var version = Assembly.GetExecutingAssembly().GetName().Version;
-        if (version is null) return "1.2.0";
+        if (version is null) return "1.2.5";
         return version.Revision > 0 ? version.ToString(4) : version.ToString(3);
     }
 
@@ -717,7 +717,7 @@ public sealed partial class MainPage : Page
             if (File.Exists(project.SourcePath)) utilitySources.Add(new MediaSourceItem { Path = project.SourcePath });
             InputPathBox.Text = project.SourcePath;
             SelectTag(UtilityModelPicker, project.ModelId);
-            UtilityStatusText.Text = "项目已恢复，可以重新处理或查看原素材。";
+            UtilityStatusText.Text = "处理记录已载入，可以重新处理或查看原素材。";
         }
     }
 
@@ -764,7 +764,9 @@ public sealed partial class MainPage : Page
 
     private void SelectNavigation(string tag)
     {
-        var target = Shell.MenuItems.OfType<NavigationViewItem>().FirstOrDefault(x => (x.Tag as string) == tag);
+        var target = Shell.MenuItems.Concat(Shell.FooterMenuItems)
+            .OfType<NavigationViewItem>()
+            .FirstOrDefault(x => (x.Tag as string) == tag);
         if (target is not null) Shell.SelectedItem = target;
     }
     private void ClearUtilityLogButton_Click(object sender, RoutedEventArgs e) { utilityLogs.Clear(); AppendUtilityLog("活动记录已清空。"); }

diff --git a/work/audio-studio/AuroraAudioStudio/Services/ReleaseNotesCatalog.cs b/work/audio-studio/AuroraAudioStudio/Services/ReleaseNotesCatalog.cs
@@ -8,6 +8,11 @@ public static class ReleaseNotesCatalog
 
     private static readonly Entry[] Entries =
     [
+        new(new(1, 2, 5), "2026-08-12", [
+            "• 修复首次使用引导中保存位置和模型按钮无响应的问题，主导航与底部导航现在都能正确跳转。\n• 首页改为六个独立功能直接进入，不再要求先创建统一项目。\n• 明确 .arr 只是分轨、扒谱和字幕任务的轻量处理记录，并同步调整相关界面文案。\n• README、官网、关于页、音乐人使用说明、版本信息与产品截图全部同步至 1.2.5。",
+            "• 修正首次使用引導中儲存位置和模型按鈕無回應的問題，主導覽與底部導覽現在都能正確跳轉。\n• 首頁改為六個獨立功能直接進入，不再要求先建立統一專案。\n• 明確 .arr 只是分軌、扒譜和字幕任務的輕量處理記錄，並同步調整相關介面文字。\n• README、官網、關於頁、音樂人使用說明、版本資訊與產品截圖全部同步至 1.2.5。",
+            "• Fixed unresponsive storage and model actions in the first-use guide; main and footer navigation destinations now resolve correctly.\n• Rebuilt Home around six independent feature entry points with no unified-project setup step.\n• Clarified .arr as a lightweight processing record for separation, transcription, and subtitle tasks, with matching UI terminology.\n• Synchronized the README, website, About page, musician guide, version metadata, and product screenshots for 1.2.5.",
+            "• 初回ガイドの保存先とモデルボタンが反応しない問題を修正し、メインとフッターの両ナビゲーションへ正しく移動できるようにしました。\n• ホームを6つの独立した機能から直接開始できる構成へ変更し、統一プロジェクトの作成手順を廃止しました。\n• .arr を分離、採譜、字幕タスク用の軽量な処理履歴として明確化し、関連する画面表記も更新しました。\n• README、公式サイト、情報ページ、利用ガイド、バージョン情報、製品画像を 1.2.5 に同期しました。"]),
         new(new(1, 2, 0), "2026-08-11", [
             "• 首页新增三步首次使用引导，可直接设置保存位置、按需安装模型并开始第一个字幕任务。\n• README、官网与音乐人使用说明同步补充低门槛首次体验流程。\n• README 与官网的音乐、声音和字幕产品截图全部重新实拍为 1.2.0 当前界面。\n• 修正开发文档中的更新回归测试命令，并明确固定下载包模型清单的用途。",
             "• 首頁新增三步首次使用引導，可直接設定儲存位置、按需安裝模型並開始第一個字幕任務。\n• README、官網與音樂人使用說明同步補充低門檻首次體驗流程。\n• README 與官網的音樂、聲音和字幕產品截圖全部重新拍攝為 1.2.0 當前介面。\n• 修正開發文件中的更新回歸測試指令，並說明固定下載套件模型清單的用途。",

diff --git a/work/audio-studio/AuroraAudioStudio/Services/UpdateService.cs b/work/audio-studio/AuroraAudioStudio/Services/UpdateService.cs
@@ -19,7 +19,7 @@ public sealed class UpdateService(SettingsService settings, LocalizationService 
 
     public async Task<AppUpdateInfo> CheckAsync(CancellationToken cancellationToken = default)
     {
-        var current = Assembly.GetExecutingAssembly().GetName().Version?.ToString(3) ?? "1.2.0";
+        var current = Assembly.GetExecutingAssembly().GetName().Version?.ToString(3) ?? "1.2.5";
         try
         {
             using var response = await client.GetAsync(LatestReleaseApi, cancellationToken);
@@ -203,7 +203,7 @@ public sealed class UpdateService(SettingsService settings, LocalizationService 
             DefaultRequestVersion = HttpVersion.Version11,
             DefaultVersionPolicy = HttpVersionPolicy.RequestVersionExact
         };
-        value.DefaultRequestHeaders.UserAgent.Add(new ProductInfoHeaderValue("Aurora-Audio-Studio", Assembly.GetExecutingAssembly().GetName().Version?.ToString(3) ?? "1.2.0"));
+        value.DefaultRequestHeaders.UserAgent.Add(new ProductInfoHeaderValue("Aurora-Audio-Studio", Assembly.GetExecutingAssembly().GetName().Version?.ToString(3) ?? "1.2.5"));
         value.DefaultRequestHeaders.Accept.Add(new MediaTypeWithQualityHeaderValue("application/vnd.github+json"));
         return value;
     }

diff --git a/work/audio-studio/AuroraAudioStudio/Services/MaintenanceService.cs b/work/audio-studio/AuroraAudioStudio/Services/MaintenanceService.cs
@@ -12,7 +12,7 @@ public sealed class MaintenanceService(SettingsService settings, ModelCatalogSer
         checks.Add(new("创作引擎", models.All(x => x.Installed) ? "良好" : "需要检查", $"{models.Count(x => x.Installed)}/{models.Count} 个组件可用", "\uE896"));
         checks.Add(new("模型存储", Directory.Exists(settings.Current.LocalAiRoot) ? "良好" : "不可用", settings.Current.LocalAiRoot, "\uEDA2"));
         checks.Add(new("成品存储", Directory.Exists(settings.Current.OutputRoot) ? "良好" : "需要创建", DiskDetail(settings.Current.OutputRoot), "\uE8B7"));
-        checks.Add(new("任务恢复", "已启用", "异常退出后保留任务、项目与诊断记录", "\uE777"));
+        checks.Add(new("任务恢复", "已启用", "异常退出后保留任务、处理记录与诊断记录", "\uE777"));
         checks.Add(new("安全模式", settings.Current.SafeMode ? "已启用" : "未启用", settings.Current.SafeMode ? "第三方创作引擎不会自动启动" : "所有已安装引擎均可启动", "\uE72E"));
         return checks;
     }

diff --git a/work/audio-studio/AuroraAudioStudio.UpdateFlowTests/Program.cs b/work/audio-studio/AuroraAudioStudio.UpdateFlowTests/Program.cs
@@ -66,6 +66,9 @@ Require(notes110.All(x => !string.IsNullOrWhiteSpace(x.Body)), "Every 1.1.0 rele
 var notes120 = ReleaseNotesCatalog.CurrentAndRecent("1.2.0", "zh-CN");
 Require(notes120.Count == 5 && notes120[0].Version == "1.2.0" && notes120[^1].Version == "0.9.9", "Version 1.2.0 must show itself and its four previous releases.");
 Require(notes120.All(x => !string.IsNullOrWhiteSpace(x.Body)), "Every 1.2.0 release note must have localized content.");
+var notes125 = ReleaseNotesCatalog.CurrentAndRecent("1.2.5", "zh-CN");
+Require(notes125.Count == 5 && notes125[0].Version == "1.2.5" && notes125[^1].Version == "1.0.0", "Version 1.2.5 must show itself and its four previous releases.");
+Require(notes125.All(x => !string.IsNullOrWhiteSpace(x.Body)), "Every 1.2.5 release note must have localized content.");
 var validationNotes = ReleaseNotesCatalog.CurrentAndRecent("0.9.8.9", "zh-CN");
 Require(validationNotes[0].Version == "0.9.8" && validationNotes[0].IsCurrent, "The validation build must identify its nearest public release history as current.");
 

diff --git a/work/audio-studio/AuroraAudioStudio/MainWindow.xaml.cs b/work/audio-studio/AuroraAudioStudio/MainWindow.xaml.cs
@@ -22,7 +22,7 @@ public sealed partial class MainWindow : Window
         ExtendsContentIntoTitleBar = true;
         SetTitleBar(AppTitleBar);
         var version = Assembly.GetExecutingAssembly().GetName().Version;
-        var displayVersion = version is null ? "1.2.0" : version.Revision > 0 ? version.ToString(4) : version.ToString(3);
+        var displayVersion = version is null ? "1.2.5" : version.Revision > 0 ? version.ToString(4) : version.ToString(3);
         AppTitleBar.Subtitle = displayVersion;
 
         var versionedIcon = Path.Combine(AppContext.BaseDirectory, "Assets", $"AppIcon-{displayVersion}.ico");

diff --git a/work/audio-studio/AuroraAudioStudio/Services/ModelUpdateService.cs b/work/audio-studio/AuroraAudioStudio/Services/ModelUpdateService.cs
@@ -304,7 +304,7 @@ public sealed class ModelUpdateService(ModelCatalogService catalog, SettingsServ
     private static HttpClient CreateClient()
     {
         var value = new HttpClient { Timeout = TimeSpan.FromHours(8) };
-        value.DefaultRequestHeaders.UserAgent.Add(new ProductInfoHeaderValue("Aurora-Audio-Studio", Assembly.GetExecutingAssembly().GetName().Version?.ToString(3) ?? "1.2.0"));
+        value.DefaultRequestHeaders.UserAgent.Add(new ProductInfoHeaderValue("Aurora-Audio-Studio", Assembly.GetExecutingAssembly().GetName().Version?.ToString(3) ?? "1.2.5"));
         return value;
     }
 }

diff --git a/work/audio-studio/README-给音乐人的使用说明.md b/work/audio-studio/README-给音乐人的使用说明.md
@@ -1,8 +1,8 @@
-# Aurora Audio Studio 1.2.0 使用说明
+# Aurora Audio Studio 1.2.5 使用说明
 
-Aurora 会自动保存项目与任务记录。完成一次分轨、扒谱或字幕任务时，会在“项目目录”创建 `.arr` 项目文件；它记录素材、模型、任务与成品之间的关系，但不会复制你的大型素材或模型权重。旧版 `.aurora` 项目仍可继续读取。
+完成一次分轨、扒谱或字幕任务时，Aurora 会在“处理记录目录”创建 `.arr` 记录文件。它只是保存源文件路径、模型、参数、任务与输出关系的轻量 JSON 清单，不是类似 PS、PR 的可编辑工程文件，也不会复制素材、模型或成品。旧版 `.aurora` 记录仍可继续读取。
 
-- 从“首页”选择创作类型，或继续最近项目。
+- 从“首页”直接选择六个独立功能之一，或再次运行最近处理记录。
 - 在“任务中心”查看排队、处理中、已完成和中断后可重试的任务。
 - 在“模型中心”安装、修复、更新、回退或安全卸载模型；默认模型与可选扩展会明确区分。
 - 启动异常时进入“维护与恢复”，开启安全模式并导出诊断包。
@@ -16,8 +16,8 @@ Aurora 是一套 Windows 本地 AI 音频工作台。音乐生成、AI 配音、
 1. 从 GitHub Release 下载正式安装程序。
 2. 允许 Windows 管理员授权，并阅读、同意 GNU GPL v3.0 协议。
 3. 默认安装到 `C:\Program Files\Aurora Audio Studio`；也可以选择其他位置，并决定是否创建桌面快捷方式。
-4. 打开 Aurora，在“设置”中选择模型目录和成品目录。
-5. 从左栏选择创作流程，再选择需要的模型。
+4. 打开 Aurora，直接从首页选择六个独立功能之一，不需要新建项目。
+5. 进入功能后，再按当前任务提示添加素材、选择模型和确认输出位置。
 6. 选择未安装的创作模型时，点击“自动安装模型”；确认目标目录、预计下载量和建议预留空间后才会下载或部署。
 
 例如把模型位置设为 `D:\Creative Tools`，Aurora 会使用：
@@ -79,11 +79,11 @@ Subtitle Edit 与 Faster-Whisper 用于语音识别、时间轴校对和 SRT 导
 
 ## 应用更新
 
-Aurora 每天首次启动时会自动检查一次，也可以在“关于”页随时点击“检查更新”。如果 GitHub 上有更新，确认后会显示全局下载和 SHA-256 校验进度；随后只显示 Windows 标准安装进度窗口。只有安装成功后才自动打开新版。个人设置、任务记录、模型、项目、成品和原安装目录都会保留。如果已经是最新版，会直接提示无需更新。“检查更新”旁的“更新日志”可查看当前和最近四个版本的更新内容。
+Aurora 每天首次启动时会自动检查一次，也可以在“关于”页随时点击“检查更新”。如果 GitHub 上有更新，确认后会显示全局下载和 SHA-256 校验进度；随后只显示 Windows 标准安装进度窗口。只有安装成功后才自动打开新版。个人设置、任务记录、模型、处理记录、成品和原安装目录都会保留。如果已经是最新版，会直接提示无需更新。“检查更新”旁的“更新日志”可查看当前和最近四个版本的更新内容。
 
 ## 卸载
 
-请从 Windows“已安装的应用”或开始菜单运行标准卸载程序。卸载时可以选择保留个人配置，或删除设置、日志、任务记录、模型元数据和更新缓存。AI 模型、项目、生成成品与个人素材始终保留。
+请从 Windows“已安装的应用”或开始菜单运行标准卸载程序。卸载时可以选择保留个人配置，或删除设置、日志、任务记录、模型元数据和更新缓存。AI 模型、处理记录、生成成品与个人素材始终保留。
 
 ## 使用与版权提醒
 
@@ -101,4 +101,4 @@ Aurora Audio Studio is a local-first Windows workbench for music generation, spe
 4. Open Settings and choose model and output folders.
 5. Pick a workflow and install only the models you need.
 
-Aurora supports Simplified Chinese, Traditional Chinese, English, and Japanese UI. It does not start with Windows or bundle model weights. Uninstall can optionally remove Aurora settings and history, but never models, projects, source media, or outputs.
+Aurora supports Simplified Chinese, Traditional Chinese, English, and Japanese UI. It does not start with Windows or bundle model weights. Uninstall can optionally remove Aurora settings and history, but never models, processing records, source media, or outputs.
